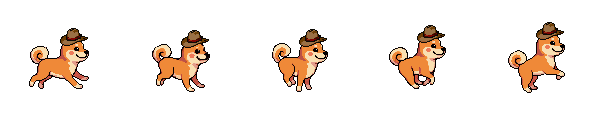
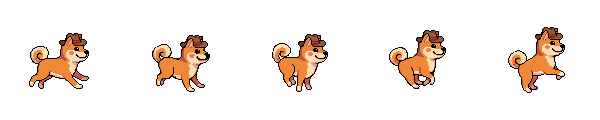
Small hats between the ears; JUMP!'s cowboy hat fitted by PixelLab; the closet mirror moves
- Hats are small now (about 12-17px, PixelLab redrawing each one shrunk
  from the big one) and sit in the middle of the head between the ears;
  the crown is one of them (hats.png frame 11). The big ones are kept in
  art-extras/closet/hats-big.png.
- JUMP!'s runner: PixelLab put a side-on cowboy hat on its frame 0, fitted
  to that head; the top of that head (hat and ears) is laid on every run
  and jump frame where its head is, so each frame keeps its own face.
- The closet's mirror plays the break's jump and a cheering wiggle, so you
  can see how an item sits while the shiba moves; the 10 cards are two
  rows of five.

diff --git a/index.html b/index.html
@@ -274,7 +274,7 @@ const Assets = {
     demo:     { src: 'art/demo.png',     fw: 32,  fh: 40,  frames: 7,  fps: 1  },
     highfive: { src: 'art/highfive.png', fw: 64,  fh: 64,  frames: 14, fps: 1  },
     breakjump:{ src: 'art/breakjump.png', fw: 64, fh: 96,  frames: 8,  fps: 1  },
-    hats:     { src: 'art/hats.png',     fw: 32,  fh: 32,  frames: 11, fps: 1  },
+    hats:     { src: 'art/hats.png',     fw: 32,  fh: 32,  frames: 12, fps: 1  },
     runcowboy:{ src: 'art/runcowboy.png', fw: 120, fh: 120, frames: 9, fps: 1  },
     jumpcowboy:{ src: 'art/jumpcowboy.png', fw: 120, fh: 120, frames: 5, fps: 1 },
     walkstone:{ src: 'art/walkstone.png', fw: 36, fh: 36,  frames: 1,  fps: 1  },
@@ -6217,7 +6217,7 @@ const Wipe = {
    with every bob, cheer and droop. */
 const Closet = {
   KEY: 'micromania.closet',
-  // f: hats.png frame (the crown uses art/crown.png; frame 9 is a mini beanie,
+  // f: hats.png frame (small, to sit between the ears; frame 9 is a mini beanie,
   // 10 the side-on cowboy hat JUMP!'s runner wears: prompt icons). game: won by beating that game, where you see it (the SLED
   // rider's beanie, the HEADBANG rocker's shades). face: worn on the eyes
   // (the sunglasses), not on top. sit: how far the hat's
@@ -6233,7 +6233,7 @@ const Closet = {
     { id: 'halo',    name: 'HALO',          f: 5,  sit: -5, how: 'SCORE 30 IN CLASSIC',    got: s => s.classic >= 30 },
     { id: 'propeller', name: 'PROPELLER CAP', f: 6, sit: 3, how: 'REACH WORLD 2 IN RUN',   got: s => s.runWorld >= 2 },
     { id: 'flower',  name: 'FLOWER',        f: 7,  sit: 3, dx: -6, how: 'TAKE 5 SELFIES',  got: s => s.photos >= 5 },
-    { id: 'crown',   name: 'CROWN',         crown: true, sit: 3, how: 'ALL 7 BOSSES IN ONE CLASSIC GAME', got: s => !!s.allBosses },
+    { id: 'crown',   name: 'CROWN',         f: 11, sit: 3, how: 'ALL 7 BOSSES IN ONE CLASSIC GAME', got: s => !!s.allBosses },
   ],
   item(id) { return this.ITEMS.find(i => i.id === id); },
 
@@ -7855,7 +7855,7 @@ const Engine = {
   TOY_PREV: { x: 18, y: TOP + 220, w: 32, h: 18 },
   TOY_DEV: { x: W - 42, y: TOP + 52, w: 26, h: 16 },   // ?dev only: unlock everything
   TOY_NEXT: { x: W - 50, y: TOP + 220, w: 32, h: 18 },
-  closetCard(i) { const c = i % 4, r = (i / 4) | 0; return { x: 19 + c * 36, y: TOP + 146 + r * 34, w: 34, h: 32 }; },
+  closetCard(i) { const c = i % 5, r = (i / 5) | 0; return { x: 16 + c * 30, y: TOP + 164 + r * 32, w: 28, h: 30 }; },
   toyGames() { return [...POOL, ...BOSSES]; },
   openToy(tab) {
     this.state = 'TOYROOM'; this.timer = 0.2;
@@ -7936,13 +7936,21 @@ const Engine = {
     }
     // CLOSET: a mirror with your shiba in it, head and shoulders at 2x, wearing
     // what you've picked (its frame drawn over the edge of the glass)
-    const M = { x: CX - 46, y: TOP + 48, w: 92, h: 94 }, fy = M.y + M.h - 3;   // feet near the bottom of the glass
+    const M = { x: CX - 46, y: TOP + 50, w: 92, h: 106 }, fy = M.y + M.h - 3;   // feet near the bottom of the glass
     g.nine('buttons', 0, M.x - 4, M.y - 4, M.w + 8, M.h + 8, 6);   // the mirror's wooden frame
     g.rect(M.x, M.y, M.w, M.h, MENU_PANEL_DARK);                   // the glass
     g.rect(M.x + 5, M.y + 5, 3, 16, '#3d64a8'); g.rect(M.x + 10, M.y + 5, 2, 9, '#3d64a8');   // a glint
     ctx.save(); ctx.beginPath(); ctx.rect(M.x, M.y, M.w, M.h); ctx.clip();
-    // the whole shiba 1:1 (art/fullshiba.png, 48x64), so its hat and body show together
-    g.sprite('fullshiba', CX, fy - 32, { w: 48, h: 64, frame: 0 }); Closet.dress('fullshiba', 0, CX, fy - 32, 48, 64);
+    // the whole shiba 1:1, moving, so you see how it wears it: two of the break's
+    // happy jumps (art/breakjump.png), then a cheering wiggle (art/fullshiba.png)
+    const ct = this.time % 2.8;
+    if (ct < 1.4 && Assets.get('breakjump')) {
+      const f = Math.floor(ct / this.BREAK_JUMP * 8) % 8;
+      g.sprite('breakjump', CX, fy - 48, { frame: f }); Closet.dress('breakjump', f, CX, fy - 48, 64, 96);
+    } else {
+      const f = Math.floor(ct * 8) % 2 ? g.FULL.cheer : g.FULL.cheer2;
+      g.sprite('fullshiba', CX, fy - 32, { w: 48, h: 64, frame: f }); Closet.dress('fullshiba', f, CX, fy - 32, 48, 64);
+    }
     ctx.restore();
     const own = Closet.stats.owned;
     if (DEBUG) { const D = this.TOY_DEV; g.button(D, false); g.text('ALL', D.x + D.w / 2, D.y + 11, 7, PAL.accent); }   // ?dev: unlock everything
@@ -7950,11 +7958,12 @@ const Engine = {
       const c = this.closetCard(i), has = own.includes(it.id), on = Closet.stats.hat === it.id;
       if (on) g.button(c, true); else if (has) g.nine('buttons', 0, c.x, c.y, c.w, c.h, 6);
       else if (Assets.get('buttons')) { ctx.globalAlpha = 0.45; g.nine('buttons', 0, c.x, c.y, c.w, c.h, 6); ctx.globalAlpha = 1; }
-      if (has) Closet.drawItem(it, c.x + c.w / 2, c.y + c.h - 2, 1);
-      else { ctx.globalAlpha = 0.25; Closet.drawItem(it, c.x + c.w / 2, c.y + c.h - 2, 1); ctx.globalAlpha = 1; g.text('?', c.x + c.w / 2, c.y + 20, 12, PAL.ink); }
+      const iy = c.y + c.h - (it.face ? 10 : 5);   // small things sat in the middle of the card
+      if (has) Closet.drawItem(it, c.x + c.w / 2, iy, 1);
+      else { ctx.globalAlpha = 0.25; Closet.drawItem(it, c.x + c.w / 2, iy, 1); ctx.globalAlpha = 1; g.text('?', c.x + c.w / 2, c.y + 20, 11, PAL.ink); }
     });
     const sel = this.toySel ? Closet.item(this.toySel) : Closet.hat;
-    const y = TOP + 258;
+    const y = TOP + 246;
     if (sel) {
       g.text(sel.name, CX, y, 9, PAL.accent);
       g.text(Closet.owns(sel.id) ? (Closet.stats.hat === sel.id ? 'WEARING IT  ·  TAP TO TAKE OFF' : 'TAP TO WEAR') : sel.how, CX, y + 12, 7, Closet.owns(sel.id) ? PAL.ink : PAL.mid);

diff --git a/art-extras/README.md b/art-extras/README.md
@@ -67,6 +67,7 @@ gripping paw, and the game's calm shiba face; each at its cell's top-left (see `
 | `halo-ring.png` | 32×32 | PixelLab's halo, a ring seen face-on; it looked like a hoop on a head. The halo in `art/hats.png` is a flat ellipse pixelled by hand. |
 | `viking-helmet.png`, `headphones.png` | 32×32 | Taken out of the closet (the user's call). |
 | `chef-hat.png` | 32×32 | Taken out of the closet, kept for a future cooking game. |
+| `hats-big.png` | 32×32 cells | The first, head-sized hats. `art/hats.png` now has small ones (PixelLab redrew each shrunk to about 12-17px) that sit between the ears. |
 
 `art/hats.png` (32×32 cells, each on its cell's bottom middle): party hat,
 bow (small, by an ear), beanie, cowboy hat, wizard hat, halo, propeller cap,
